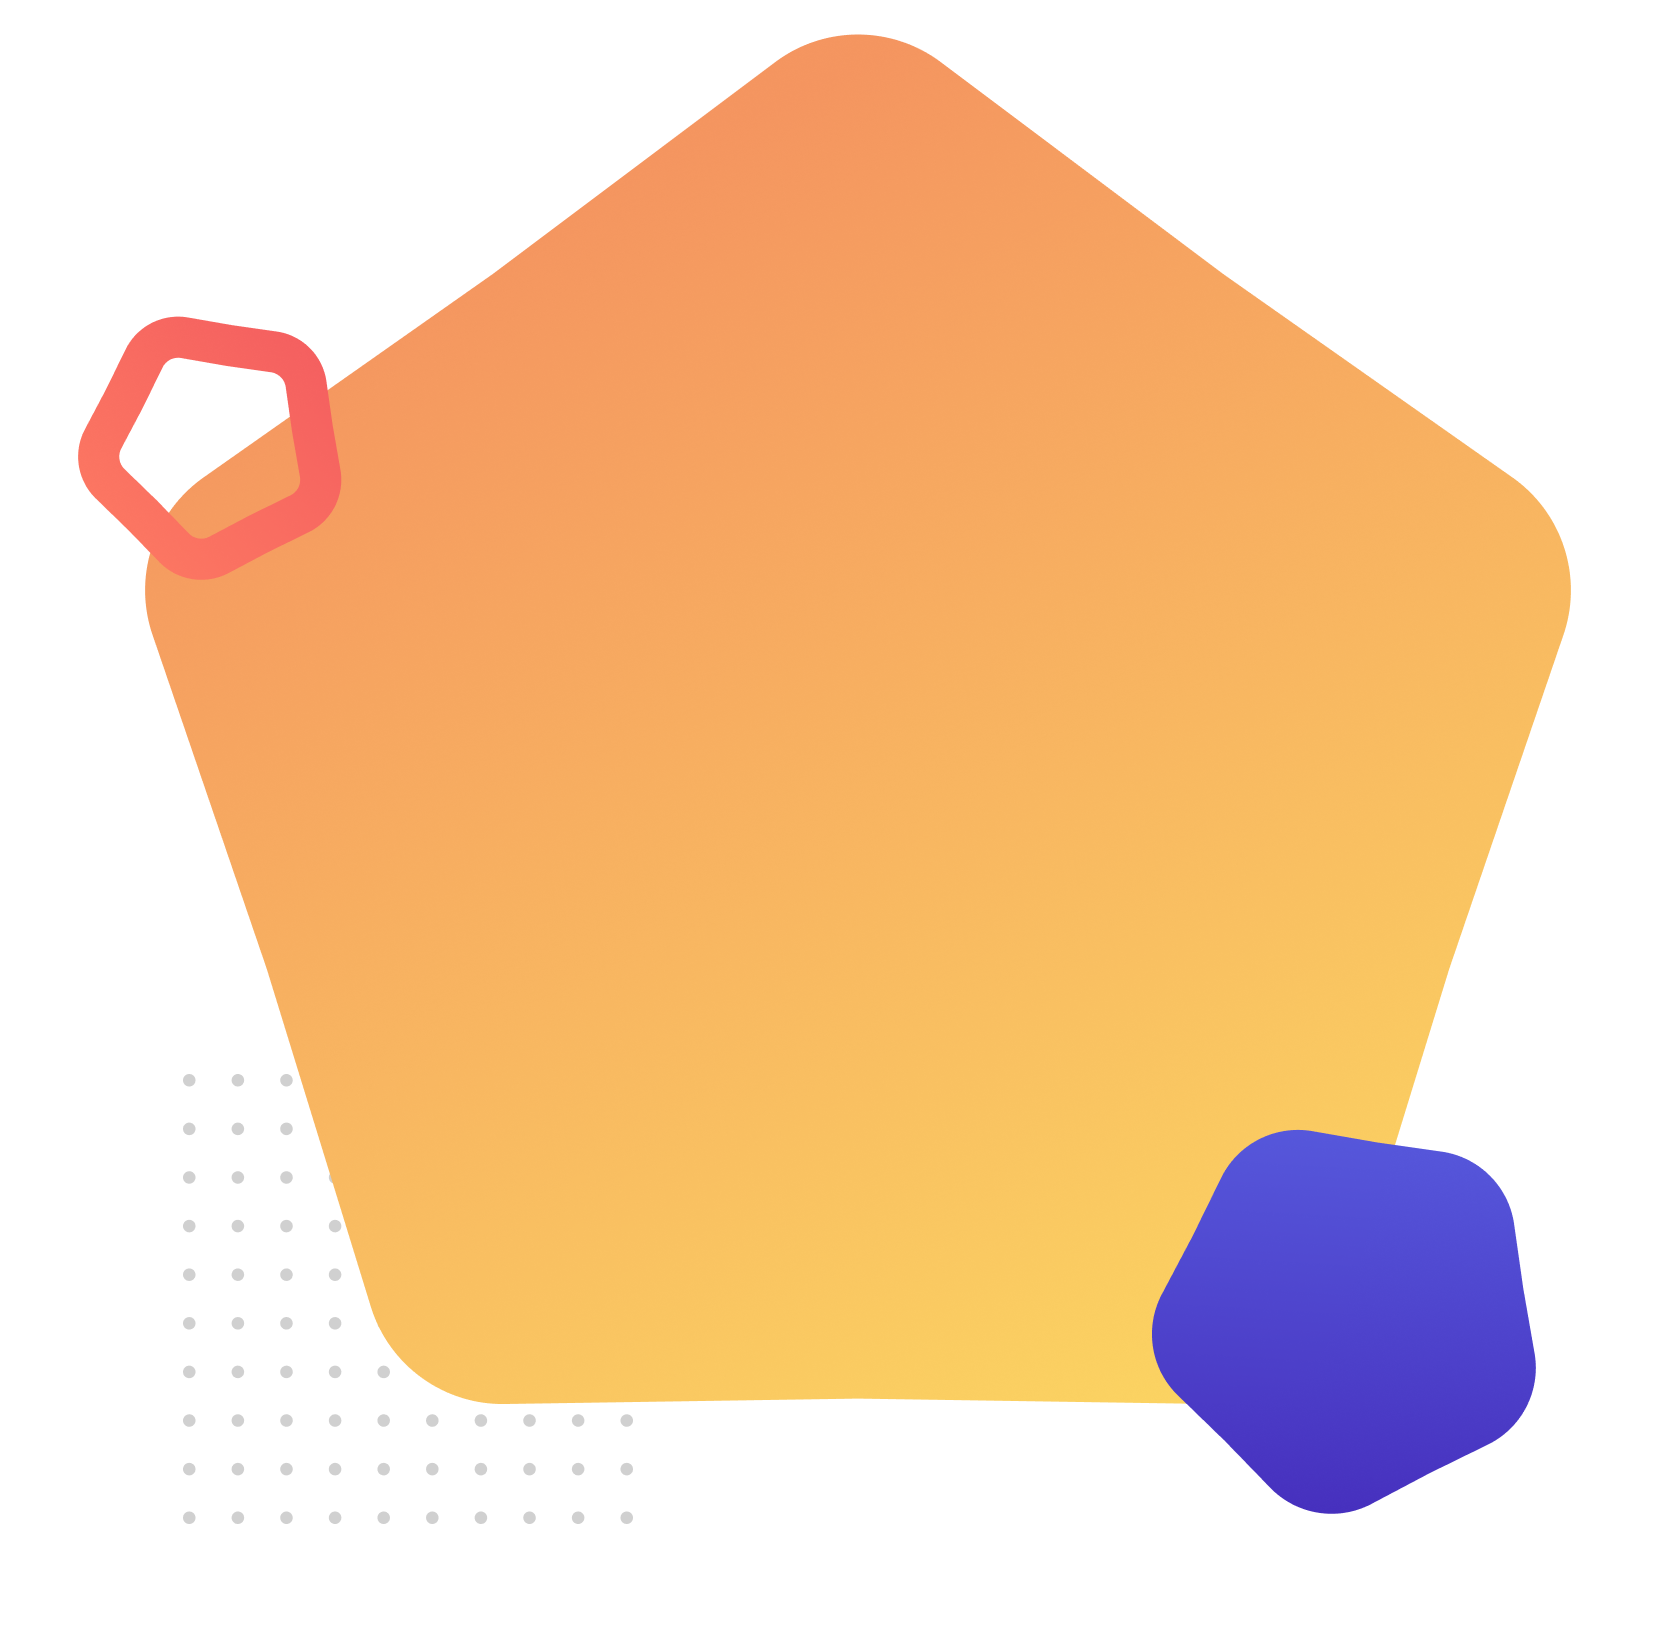
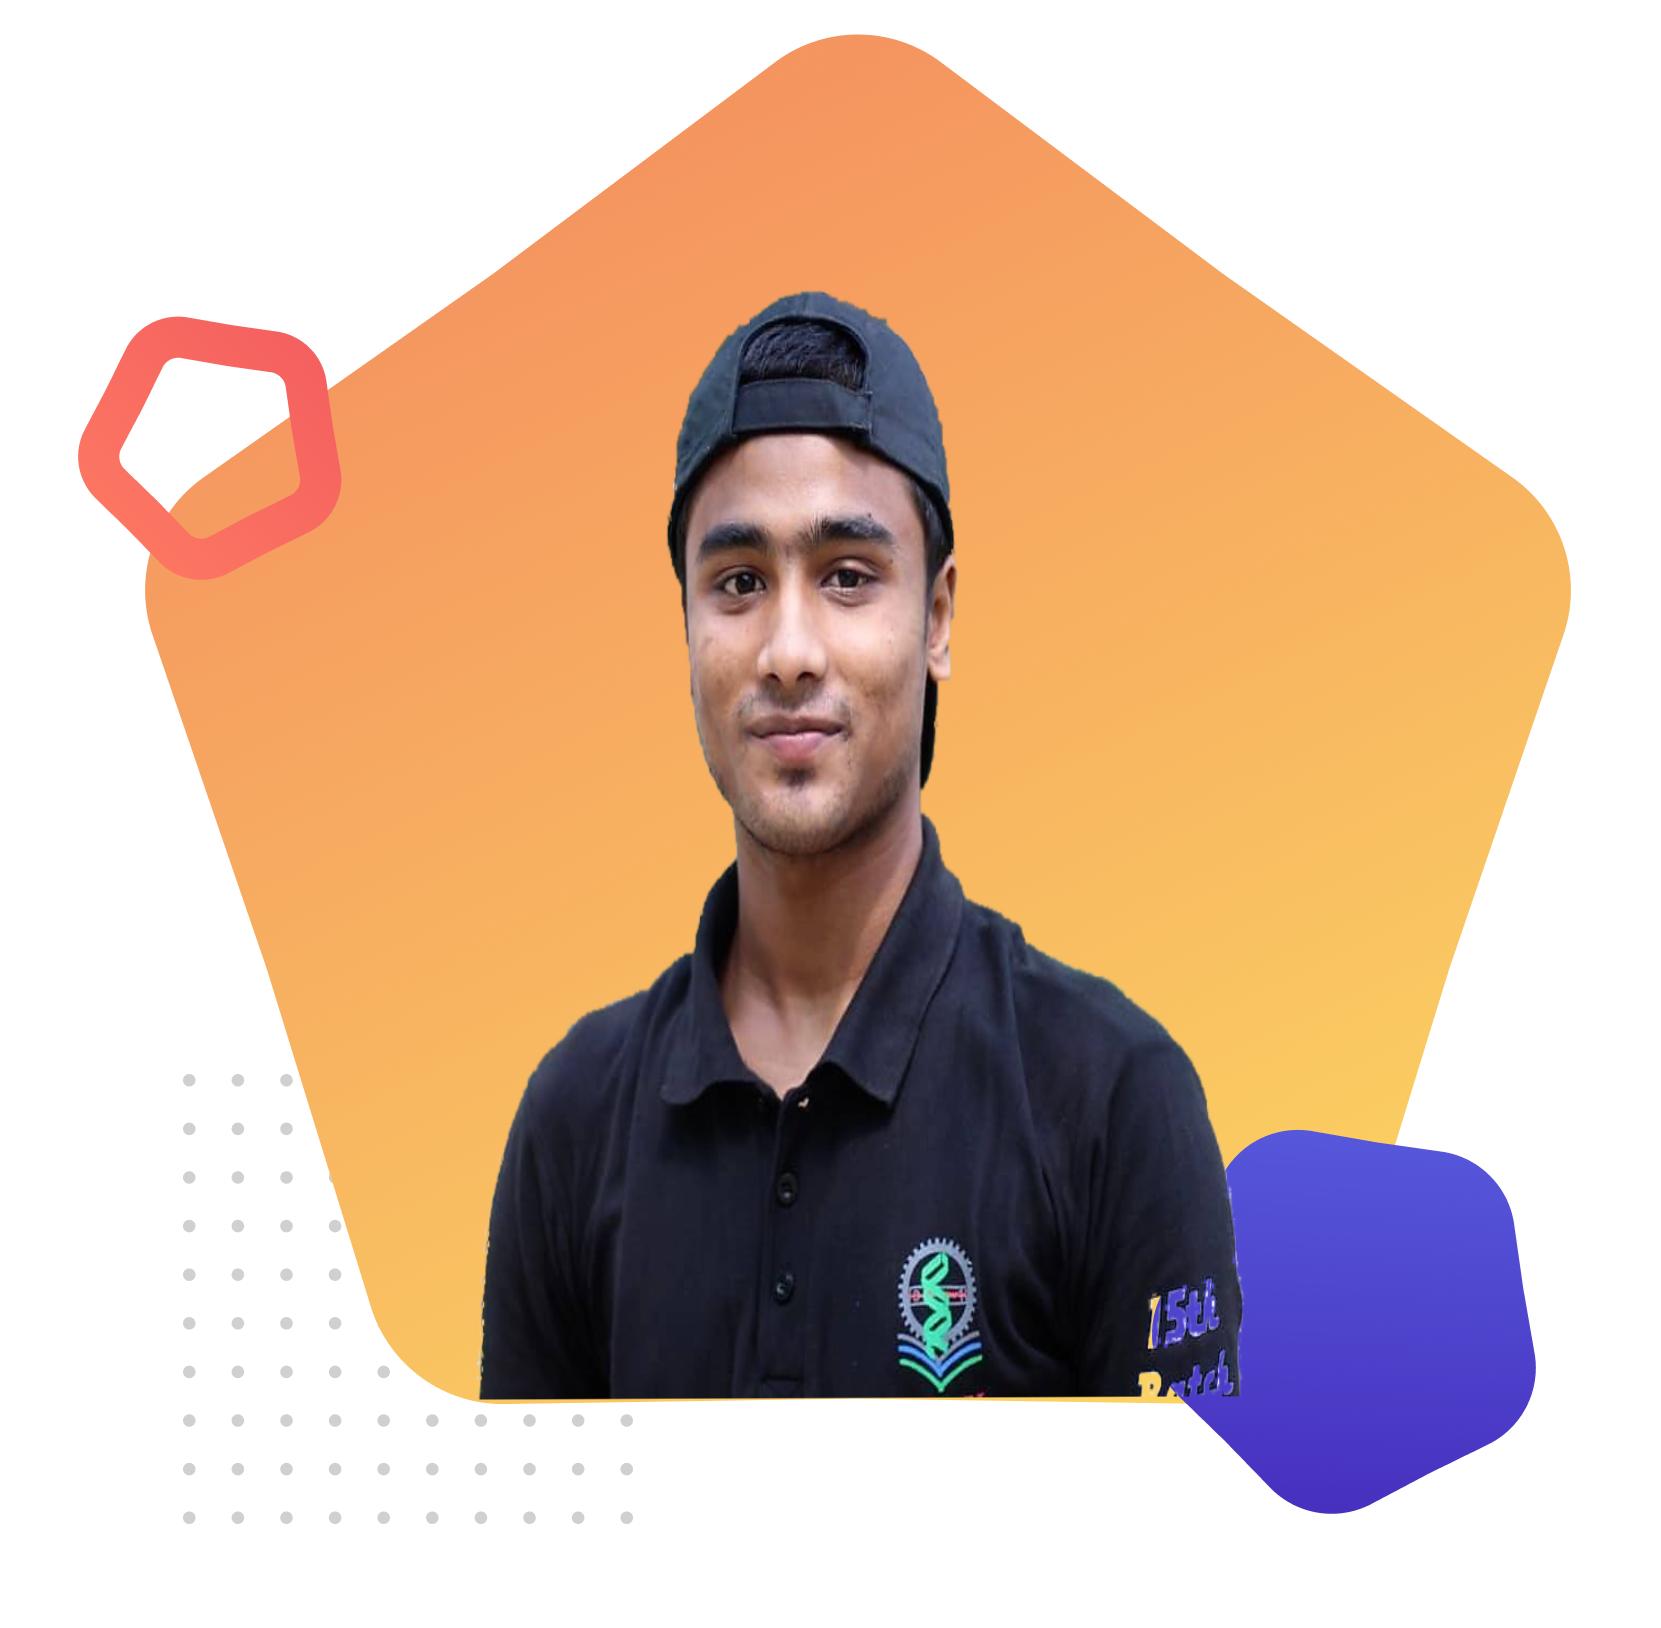
assignment done

Changed region(s): [[0.2763, 0.1536, 0.7676, 0.86]]

diff --git a/index.html b/index.html
@@ -3,11 +3,96 @@
 <head>
     <meta charset="UTF-8">
     <meta name="viewport" content="width=device-width, initial-scale=1.0">
+    <!--google fonts-->
+    
+    <link href="https://fonts.googleapis.com/css2?family=Bebas+Neue&family=Roboto:ital,wght@0,100;0,300;0,400;0,500;0,700;0,900;1,100;1,300;1,400;1,500;1,700;1,900&display=swap" rel="stylesheet">
+    
     <!--css file-->
     <link rel="stylesheet" href="css/style.css">
     <title>Assignment-1</title>
 </head>
 <body>
-    
+    <section class="navigation-part">
+        <div class="top-nav">
+            <a href="#">About</a>
+            <a href="#">Work</a>
+            <a href="#">Portfolio</a>
+            <a href="#">Contact</a>
+        </div>
+        <div class="clrfix"></div>
+    </section>
+
+    <section class="top-part">
+        <div class="half-width">
+            <h2>Hello, I'M<br> <span class="special-color">Wahidul Islam</span> </h2>
+            <p>Lorem ipsum dolor sit amet consectetur adipisicing elit. Assumenda maiores cumque vitae dignissimos. Fugit voluptatibus repellat cumque repellendus inventore molestias modi vero minima debitis ut. Placeat nesciunt assumenda enim consequuntur.</p>
+            <a  class="link-button" href="https://www.linkedin.com/in/wahidul-islam-09902b196/" target="_blank">HIRE ME</a>
+        </div>
+        <div class="half-width">
+            <img src="images/Group 33083.png" alt="#">
+        </div>
+        <div class="clrfix"></div>
+    </section>
+    <section class="about-part">
+        <div class="half-width">
+            <img src="images/Group 33088.png" alt="#">
+        </div>
+        <div class="half-width">
+            <h3>About</h3>
+            <p>Lorem, ipsum dolor sit amet consectetur adipisicing elit. Eligendi, asperiores eius. Consectetur ducimus dicta maxime rem aut corrupti. Iusto voluptate fuga dolores vero alias accusamus cum qui amet facere nulla.</p>
+            <a class="link-button" href="https://www.facebook.com/propmt.king/" target="_blank"><img id="d-icon" src="images/download-2-16.png" alt="#">DOWNLOAD CV</a>
+        </div>
+        <div class="clrfix"></div>
+    </section>
+    <section class="latest-projects">
+           <h3> <span class="special-color">LATEST</span> WORKING PROJECT</h3>
+        <div class="project">
+            <img src="images/image 4.png" alt="#">
+            <h4>Power-x-gym (gym website)</h4>
+            <p>Lorem ipsum dolor sit, amet consectetur adipisicing elit. Deleniti quasi nulla quae harum laudantium autem dolorem aliquid qui cum! Sint repudiandae quaerat tempore perferendis aliquid suscipit et. Earum, quaerat dicta?</p>
+        </div>
+        <div class="project">
+            <img src="images/image 5.png" alt="#">
+            <h4>Creative Agency</h4>
+            <p>Lorem ipsum dolor sit, amet consectetur adipisicing elit. Deleniti quasi nulla quae harum laudantium autem dolorem aliquid qui cum! Sint repudiandae quaerat tempore perferendis aliquid suscipit et. Earum, quaerat dicta?</p>
+        </div>
+        <div class="project">
+            <img src="images/image 8.png" alt="#">
+            <h4>Hard Rock Music</h4>
+            <p>Lorem ipsum dolor sit, amet consectetur adipisicing elit. Deleniti quasi nulla quae harum laudantium autem dolorem aliquid qui cum! Sint repudiandae quaerat tempore perferendis aliquid suscipit et. Earum, quaerat dicta?</p>
+        </div>
+        <div class="clrfix"></div>
+    </section>
+    <section class="skills">
+        <h2 class="alignment special-color">Skills</h2> 
+         <div id="bg-frontend" class="half-width shadow">
+             <h2 class="front-end-heading">Front-end Development</h2>
+             <p>Lorem ipsum dolor sit, amet consectetur adipisicing elit. Modi ducimus ipsam dolores corporis nulla aperiam pariatur, voluptatum libero veritatis et magnam qui, obcaecati quo, eum dignissimos impedit molestias consequuntur dicta.</p>
+         </div>
+         <div id="bg-backend" class="half-width shadow">
+             <h2 class="backend-heading">Back-end Development</h2>
+             <p>Lorem ipsum dolor sit amet consectetur adipisicing elit. Ducimus voluptates doloribus quos, distinctio suscipit reiciendis, ipsum nisi architecto est quas beatae non rerum quia temporibus nihil error iusto. Eum, cupiditate.</p>
+         </div>
+         <div class="clrfix"></div>
+     </section>
+     <section class="inquiry-part">
+        <div class="half-width"><h2>WORK INQUIRY</h2></div>
+        <div id="chat-button" class="half-width">
+            <a  href="https://www.facebook.com/" class="link-button">Let's Chat</a>
+        </div>
+        <div class="clrfix"></div>
+     </section>
+     <section class="connections">
+        <div class="text-connect">
+            <h5>STAY CONNECTED</h5>
+            <h4>hello@gmail.com</h4>
+        </div>
+        <div class="icon-connect">
+           <a><img src="images/image 6.png" alt="#"></a> 
+           <a><img src="images/Group 33059.png" alt="#"></a> 
+           <a><img src="images/image 7.png" alt="#"></a> 
+        </div>
+     </section>
+     <footer>&copy;Wahidul Islam 2021. All Rights Reserved.</footer>
 </body>
 </html>

diff --git a/css/style.css b/css/style.css
@@ -1,0 +1,175 @@
+.clrfix{
+    clear: both;
+}
+body{
+    margin: 0px;
+}
+.top-nav{
+    float: right;
+    padding-top: 20px;
+    padding-right: 30px;
+   
+}
+.top-nav a{
+    text-decoration: none;
+    
+    color: black;
+    padding: 10px 15px;
+    margin-right: 30px;
+    
+}
+.top-nav a:hover{
+    color:coral;
+    border-radius: 5px;
+}
+.top-part{
+    margin-top: 20px;
+    padding-top: 20px;
+}
+.half-width{
+    width: 40%;
+    margin-left:4% ;
+    padding-left: 4%;
+    float: left;
+}
+.half-width img{
+    width: 100%;
+    color: white;
+}
+.special-color{
+    color: coral;
+}
+h2{
+    font-size: 50px;
+    color: #363958;
+    font-family: 'Bebas Neue', cursive;
+    font-weight: bold;
+}
+p{
+    color: #3E3E3E;
+    font-family: 'Roboto', sans-serif;
+    margin-bottom: 30px;
+}
+.link-button{
+    border-radius: 5px;
+    background-image: linear-gradient(0deg, lightsalmon, tomato);
+    text-decoration: none;
+    color:white;
+    padding: 10px 20px;
+    font-weight: bold;
+    
+}
+ a:hover{
+    background-image:linear-gradient(to right, blue, indigo);
+    color: lightseagreen;
+}
+h3{
+    font-size: 40px;
+    font-weight: bold;
+    font-family: 'Bebas Neue', cursive;
+    color:  #363958;
+}
+#d-icon{
+    width: 3%;
+    margin: 0 10px;
+    
+
+}
+.latest-projects{
+    background-color: #E5E5E5;
+    padding: 30px 15px;
+}
+.latest-projects h3, .alignment {
+    text-align: center;
+}
+.project{
+    width: 25%;
+    margin: 3% 4%;
+    float: left;
+    box-shadow: 5px 5px 10px gray;
+    border-radius: 10px;
+    padding: 8px 2px;
+    background-color: white;
+    
+    
+    
+}
+.project img{
+    width: 96%;
+    padding-top: 5px;
+    padding-left: 6px;
+    
+}
+h4{
+    font-weight: bold;
+    font-family:'Roboto', sans-serif ;
+    color: #363958;
+    padding: 5px 8px;
+}
+.project p{
+    text-align: justify;
+    padding: 5px 8px;
+}
+.shadow{
+    box-shadow: 10px 10px 15px gray;
+    height: 350px;
+    background-color: white;
+    border-radius: 10px;
+}
+#bg-frontend{
+    background-color: royalblue;
+    background-image: linear-gradient(to right, royalblue, cyan);
+    border-radius: 10px;
+}
+#bg-backend{
+    background-color:palegreen;
+    background-image: linear-gradient(to right, palegreen, lightblue);
+    border-radius: 10px;
+}
+.skills{
+    padding: 10px;
+    
+}
+.inquiry-part{
+    background-image: url('../images/Group_33094_1.png');
+    background-repeat: no-repeat;
+    background-size: 100% 100%;
+    width: 80%;
+    margin: 100px 120px;
+    padding: 20px 0px ;
+    padding-right: 20px;
+    
+    
+    
+    
+}
+.inquiry-part h2{
+    color: white;
+}
+.half-width a{
+    margin-right: 20px;
+}
+#chat-button{
+    margin: 20px;
+    padding-top: 40px;
+    text-align: center;
+    margin-left: 50px;
+    padding-right: 6px;
+}
+.connections{
+    text-align: center;
+}
+.text-connect h5{
+    font-family:'Bebas Neue', cursive ;
+    color: #696871;
+}
+.icon-connect img{
+   width: 2%;
+   padding-left: 10px;
+   margin-bottom: 25px;
+}
+footer{
+    text-align: center;
+    margin-top: 10px;
+    margin-bottom: 10px;
+}
